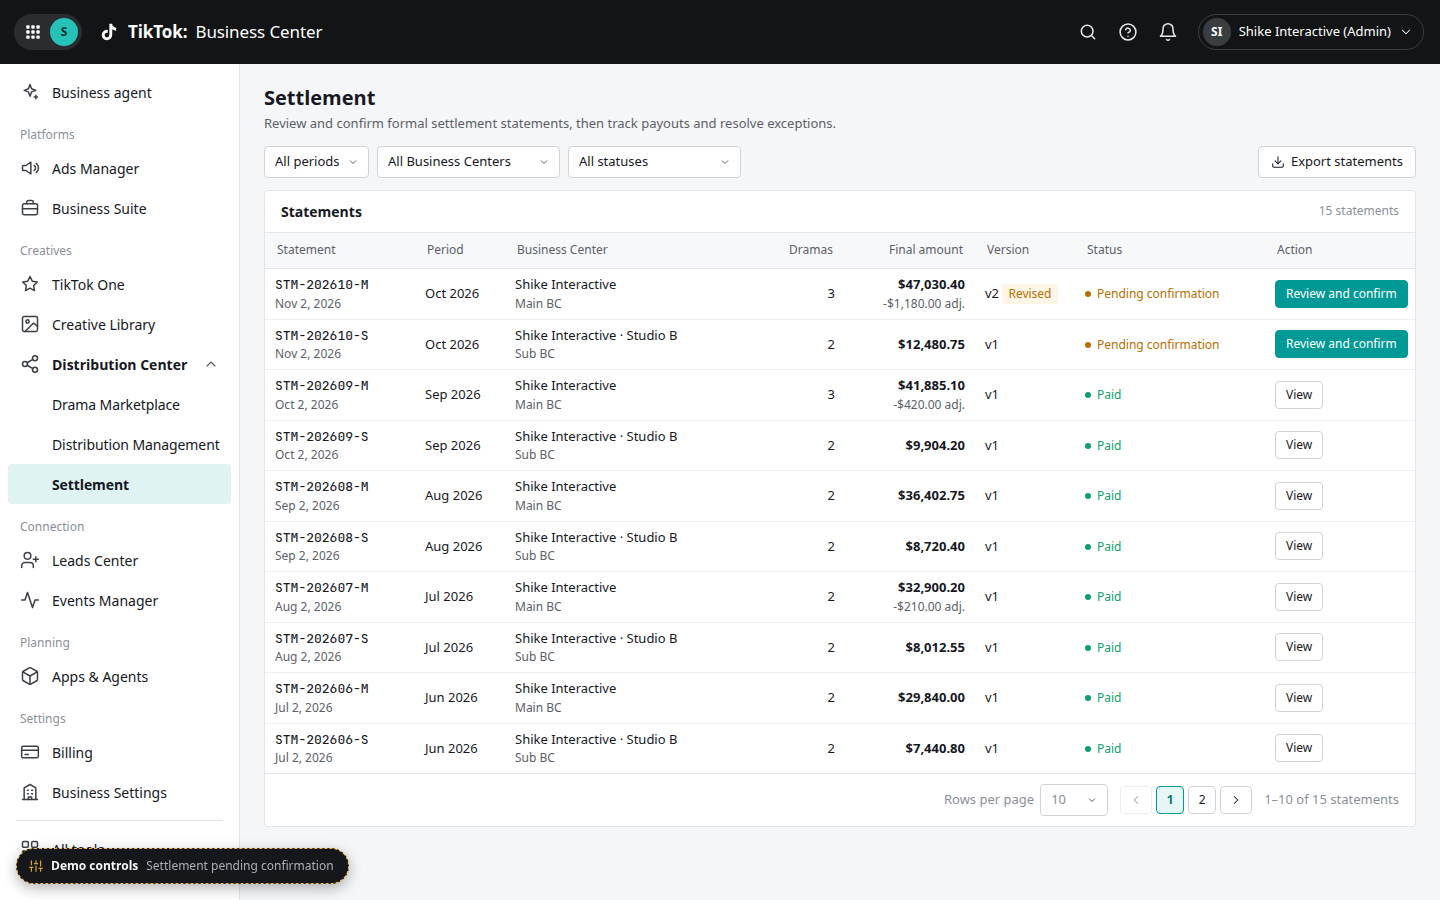
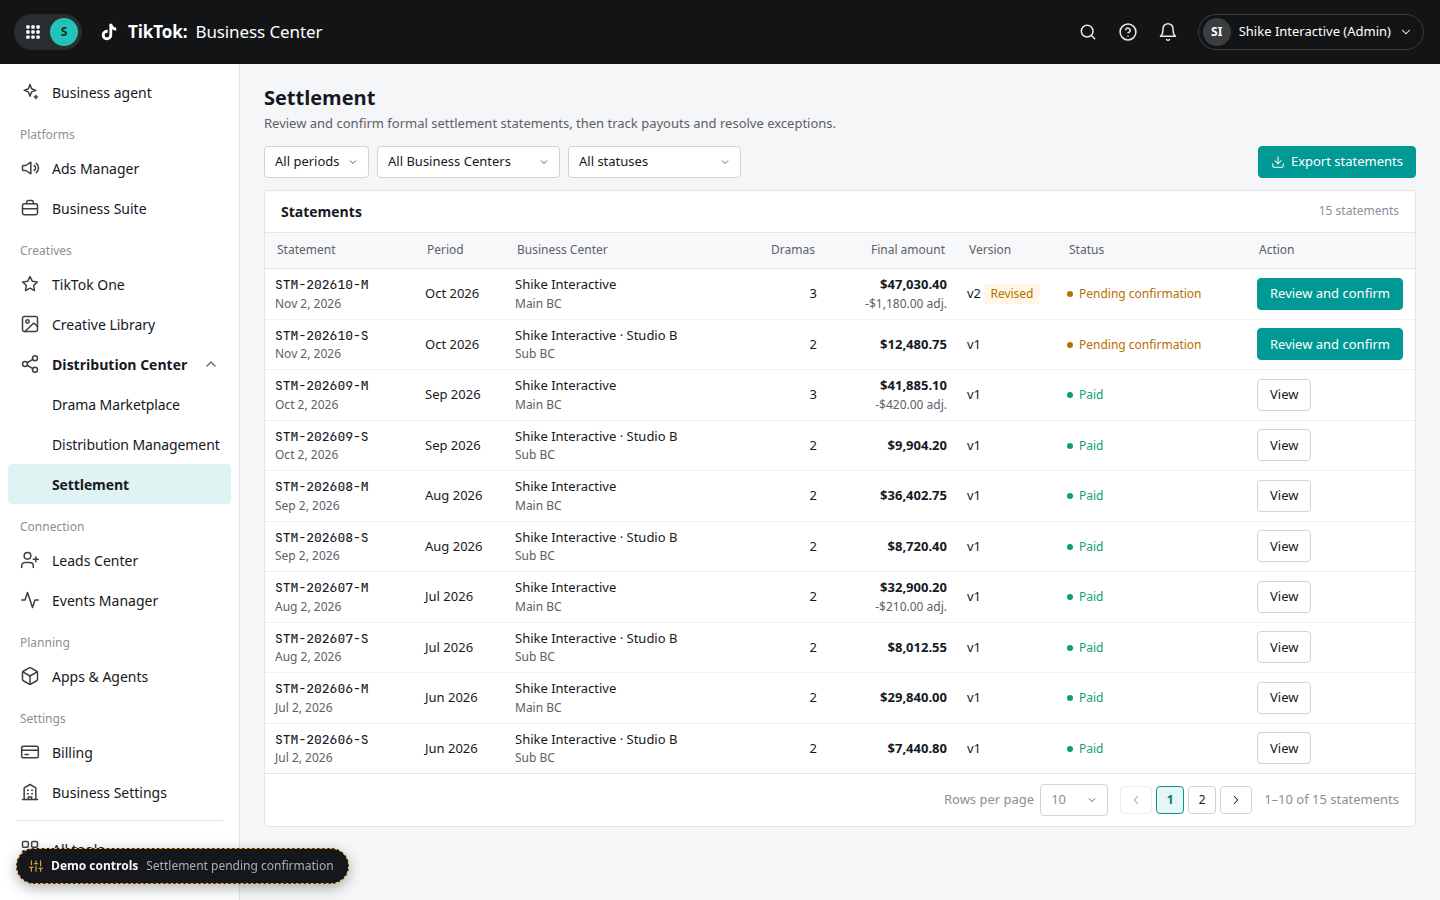
Sync prototype: match Settlement buttons to Marketplace
Use the same 32px .btn / .btn-primary treatment for statement row actions and Export statements as Drama Marketplace and other list toolbars.

diff --git a/index.html b/index.html
@@ -1979,7 +1979,7 @@ function pageSettlement(){
   if (st === 'loading') return out + `<div class="panel"><table class="tbl"><tbody>${skelRows(8, 8)}</tbody></table></div></div>`;
   if (st === 'empty') return out + '<div class="panel">' + emptyBlock('file', 'No settlement statements yet', 'Monthly statements are generated after each period closes, usually by the 2nd of the following month.', '<button class="btn" data-act="go" data-to="links">Go to Distribution Management</button>') + '</div></div>';
   const periods = [['all','All periods']].concat(Array.from(new Set(D().statements.map(s => s.period))).map(p => [p, p]));
-  out += `<div class="toolbar"><div class="left">${sel('st.period', f.period, periods, 'Period')}${sel('st.bc', f.bc, [['all','All Business Centers'],['main', BCS.main.name + ' (Main)'],['sub', 'Studio B (Sub)']], 'Business Center')}${sel('st.status', f.status, [['all','All statuses'],['pending','Pending confirmation'],['confirming','Confirming'],['processing','Processing'],['paid','Paid'],['failed','Payout failed']], 'Status')}</div><div class="right"><button class="btn" data-act="st-export">${ic('download', 14)}Export statements</button></div></div>`;
+  out += `<div class="toolbar"><div class="left">${sel('st.period', f.period, periods, 'Period')}${sel('st.bc', f.bc, [['all','All Business Centers'],['main', BCS.main.name + ' (Main)'],['sub', 'Studio B (Sub)']], 'Business Center')}${sel('st.status', f.status, [['all','All statuses'],['pending','Pending confirmation'],['confirming','Confirming'],['processing','Processing'],['paid','Paid'],['failed','Payout failed']], 'Status')}</div><div class="right"><button class="btn btn-primary" data-act="st-export">${ic('download', 14)}Export statements</button></div></div>`;
   const all = stmFiltered();
   const size = f.size || 10;
   const pages = Math.max(1, Math.ceil(all.length / size));
@@ -1987,9 +1987,9 @@ function pageSettlement(){
   if (f.page !== page) f.page = page;
   const list = all.slice((page - 1) * size, page * size);
   const rows = list.map(s => { const b = BCS[s.bc];
-    const act = s.status === 'pending' ? `<button class="btn btn-sm btn-primary" data-act="open-stm" data-id="${s.id}">Review and confirm</button>` : s.status === 'failed' ? `<button class="btn btn-sm" data-act="open-stm" data-id="${s.id}">Fix payout</button>` : s.status === 'confirming' ? `<button class="btn btn-sm" data-act="stm-check" data-id="${s.id}">Check status</button>` : `<button class="btn btn-sm" data-act="open-stm" data-id="${s.id}">View</button>`;
+    const act = s.status === 'pending' ? `<button class="btn btn-primary" data-act="open-stm" data-id="${s.id}">Review and confirm</button>` : s.status === 'failed' ? `<button class="btn" data-act="open-stm" data-id="${s.id}">Fix payout</button>` : s.status === 'confirming' ? `<button class="btn" data-act="stm-check" data-id="${s.id}">Check status</button>` : `<button class="btn" data-act="open-stm" data-id="${s.id}">View</button>`;
     return `<tr class="clickable" data-act="open-stm" data-id="${s.id}"><td><div class="cell-title mono" style="font-size:13px">${s.id}</div><div class="cell-sub">${s.generated}</div></td><td>${s.period}</td><td><div class="ell">${b.name}</div><div class="cell-sub">${b.role}</div></td><td class="num">${s.split.length}</td><td class="num"><b>${money(stmFinal(s))}</b>${s.adj ? '<div class="cell-sub">' + money(s.adj) + ' adj.</div>' : ''}</td><td>v${s.version}${s.revised ? ' <span class="tag warn">Revised</span>' : ''}</td><td>${stChip(STM_ST, s.status)}${s.failReason ? '<div class="st-reason">' + s.failReason + '</div>' : ''}</td><td>${act}</td></tr>`; }).join('');
-  out += `<div class="panel"><div class="panel-h"><h3>Statements</h3><span class="faint" style="font-size:12px">${plural(all.length, 'statement')}</span></div><div class="tbl-wrap"><table class="tbl"><thead><tr><th style="width:150px">Statement</th><th style="width:90px">Period</th><th>Business Center</th><th class="num" style="width:70px">Dramas</th><th class="num" style="width:130px">Final amount</th><th style="width:100px">Version</th><th style="width:190px">Status</th><th style="width:150px">Action</th></tr></thead><tbody>${rows || `<tr><td colspan="8">${emptyBlock('search', 'No statements match your filters', '', '<button class="btn" data-act="st-clear">Clear filters</button>')}</td></tr>`}</tbody></table></div>${stPagerHtml(all.length)}</div>`;
+  out += `<div class="panel"><div class="panel-h"><h3>Statements</h3><span class="faint" style="font-size:12px">${plural(all.length, 'statement')}</span></div><div class="tbl-wrap"><table class="tbl"><thead><tr><th style="width:150px">Statement</th><th style="width:90px">Period</th><th>Business Center</th><th class="num" style="width:70px">Dramas</th><th class="num" style="width:130px">Final amount</th><th style="width:100px">Version</th><th style="width:190px">Status</th><th style="width:168px">Action</th></tr></thead><tbody>${rows || `<tr><td colspan="8">${emptyBlock('search', 'No statements match your filters', '', '<button class="btn" data-act="st-clear">Clear filters</button>')}</td></tr>`}</tbody></table></div>${stPagerHtml(all.length)}</div>`;
   return out + '</div>';
 }
 function stmDrawer(id){
